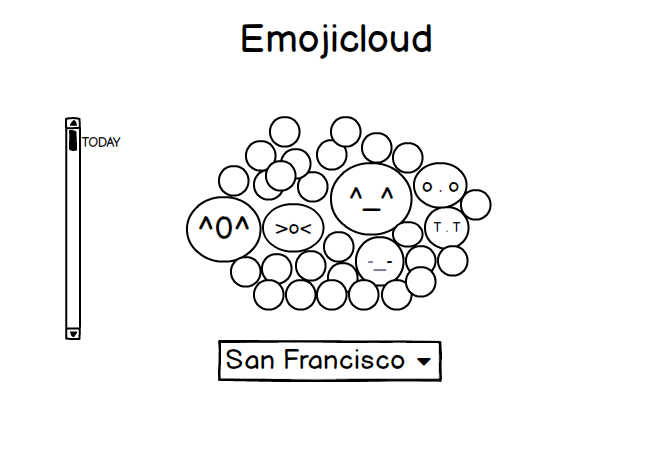
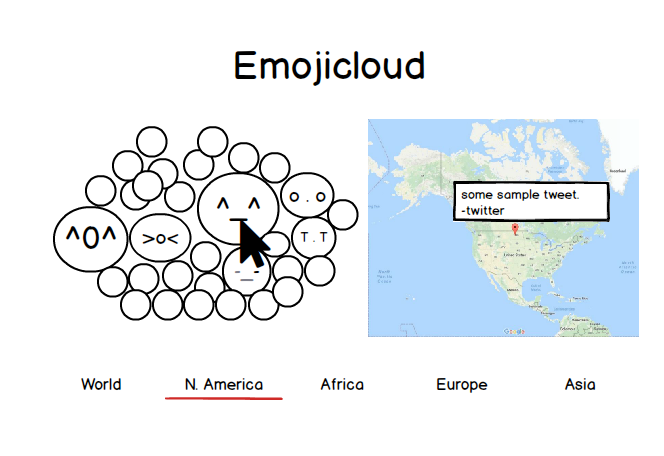
change mvp features in readme and rewrite wireframe

diff --git a/doc/README.md b/doc/README.md
@@ -9,20 +9,12 @@ Emojicloud is a visualization of emojis from tweets posted at a certain time or 
 With Emojicloud, users will be able to:
 
 - [ ] Visualize a cloud of emojis using the Twitter API
-- [ ] Rendering of different types of graph of twitter emoji data
-- [ ] Have an option to choose different times and locations
-- [ ] Click on emojis to see relevant tweets
-
-BONUS
-- [ ] Google Maps Implementation
-- [ ] Drag around emojis
+- [ ] Hover on emojis and see location and sample tweet show up on top of Google Map
+- [ ] Switch between continents
 
 ##Wireframes
 
 ![wireframes](images/wireframe1.png)
-![wireframes](images/wireframe2.png)
-![wireframes](images/wireframe3.png)
-![wireframes](images/wireframe4.png)
 
 ##Technologies and Technical Challenges
 
